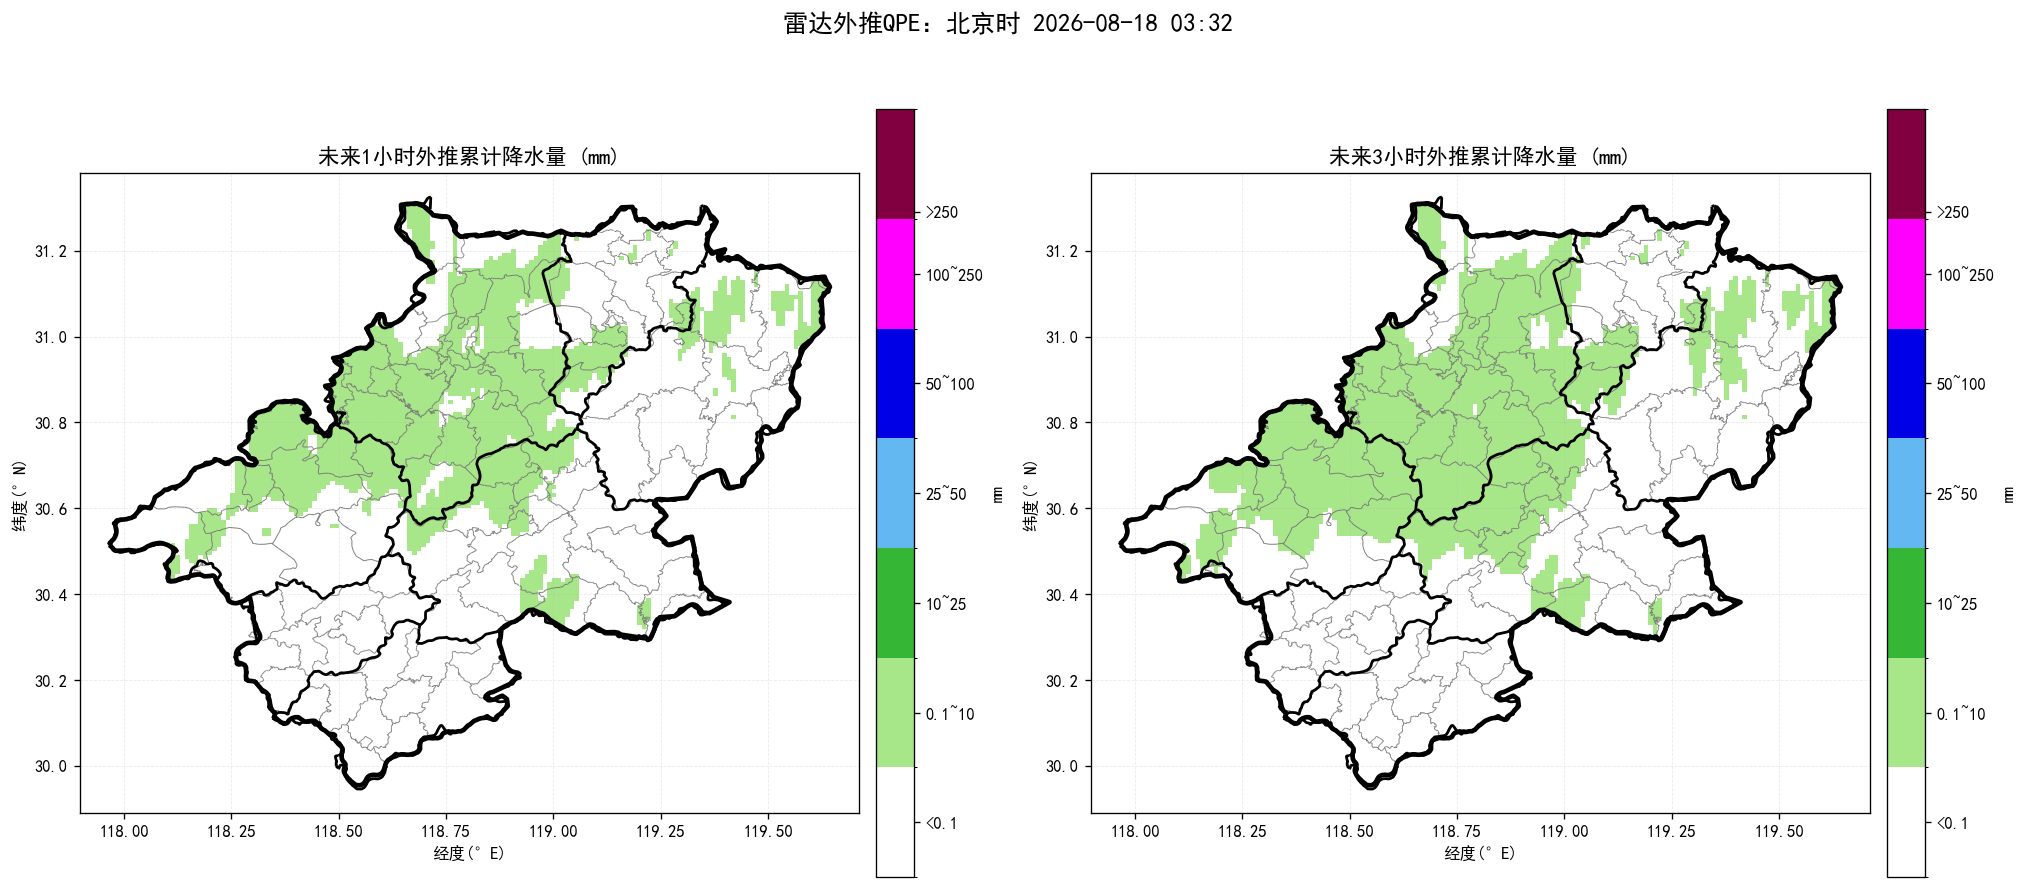
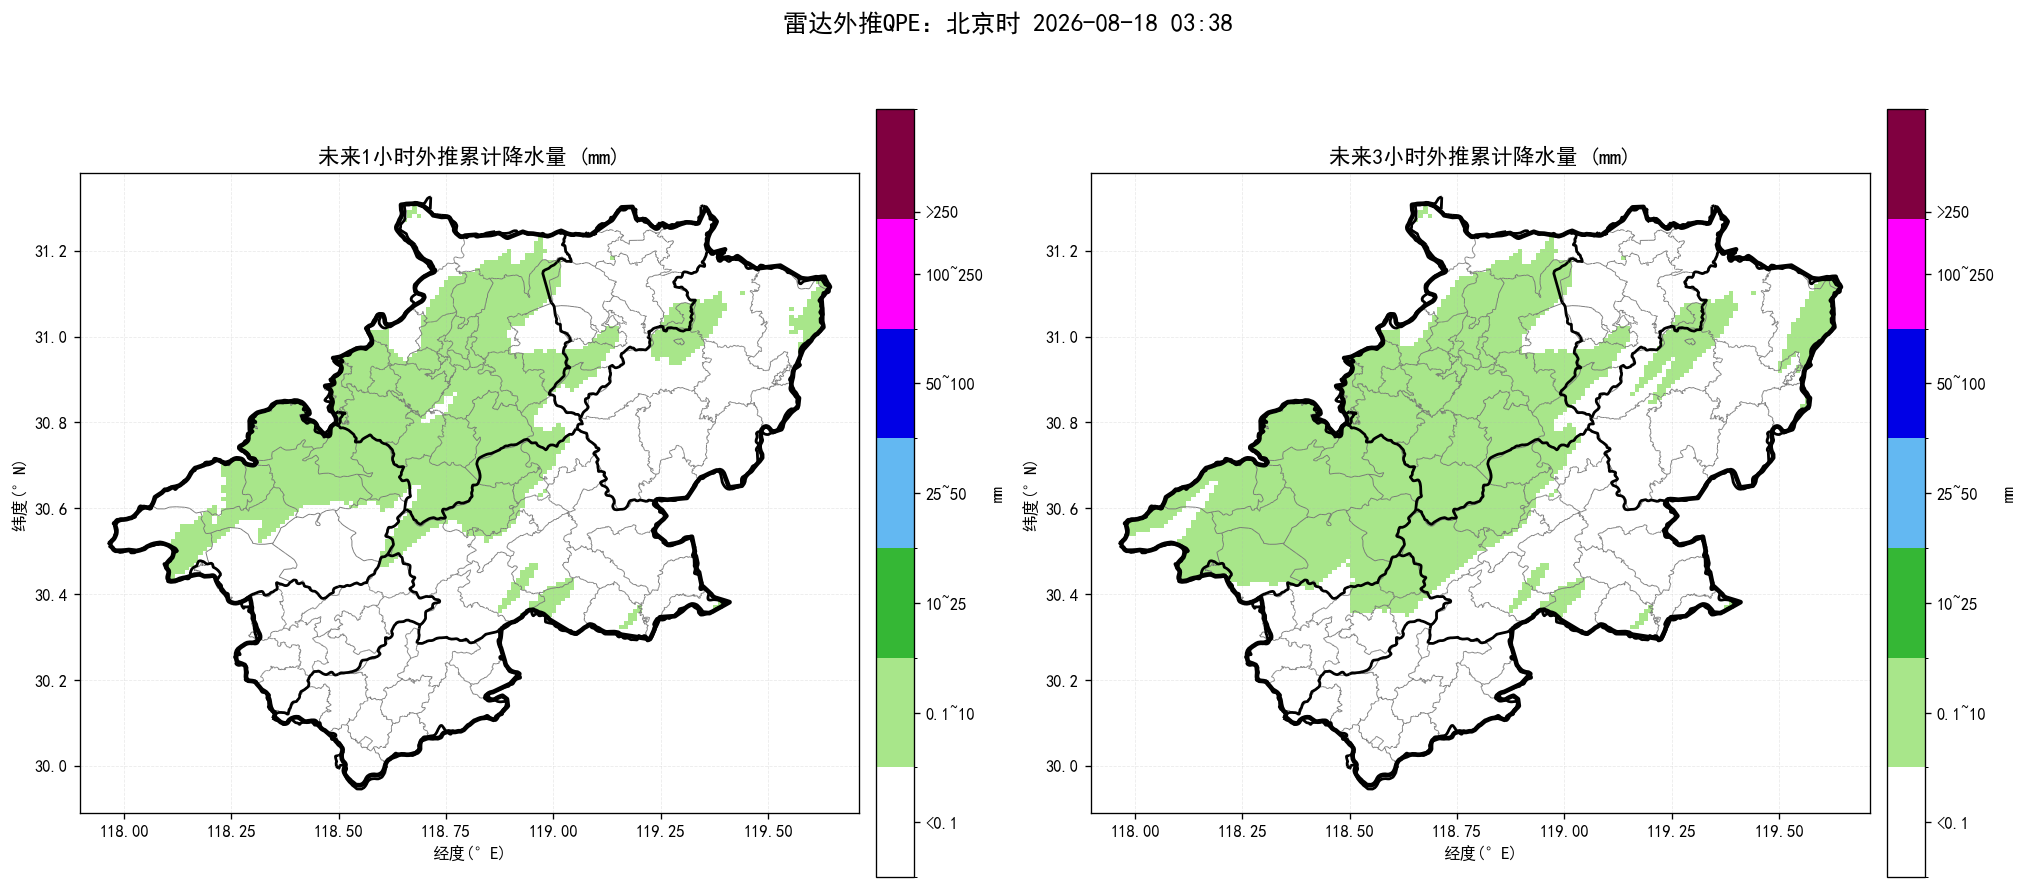
update nowcast products

diff --git a/index.html b/index.html
@@ -15,11 +15,11 @@ img.product{display:block;width:100%;height:auto;margin:10px auto 26px;border:1p
 .footer{font-size:13px;color:#777;text-align:center;margin-top:30px}
 @media(max-width:700px){.sheet{margin:0;padding:18px 15px}.alert-title{font-size:22px}.county-line{font-size:17px}.prob{font-size:18px}}
 </style></head><body><main class="sheet">
-<div class="time">起报时间：北京时 2026-08-18 03:26</div>
+<div class="time">起报时间：北京时 2026-08-18 03:32</div>
 <div class="alert-title">未来一小时降水量超过 20 毫米的乡镇：</div><div class="county-line">无</div>
 <div class="alert-title">未来三小时降水量超过 50 毫米的乡镇：</div><div class="county-line">无</div>
 <div class="alert-title">未来三小时雷暴大风（组合反射率 > 55 dBZ）的乡镇：</div><div class="county-line">无</div>
-<div class="prob">最大降水量概率预估：宣城市范围内未来三小时降水偏小，最大预报约9.6毫米，暂不进行50/80/100毫米概率预估。</div>
+<div class="prob">最大降水量概率预估：宣城市范围内未来三小时降水偏小，最大预报约4.7毫米，暂不进行50/80/100毫米概率预估。</div>
 <div class="section-title">未来降水预报图：</div><img class="product" src="短临降水预报.png" alt="未来降水预报图">
 <div class="section-title">未来三小时组合反射率图：</div><img class="product" src="未来3小时组合反射率.png" alt="未来三小时组合反射率图">
 <div class="section-title">未来三小时雷暴大风图：</div><img class="product" src="未来3小时雷暴大风.png" alt="未来三小时雷暴大风图">
